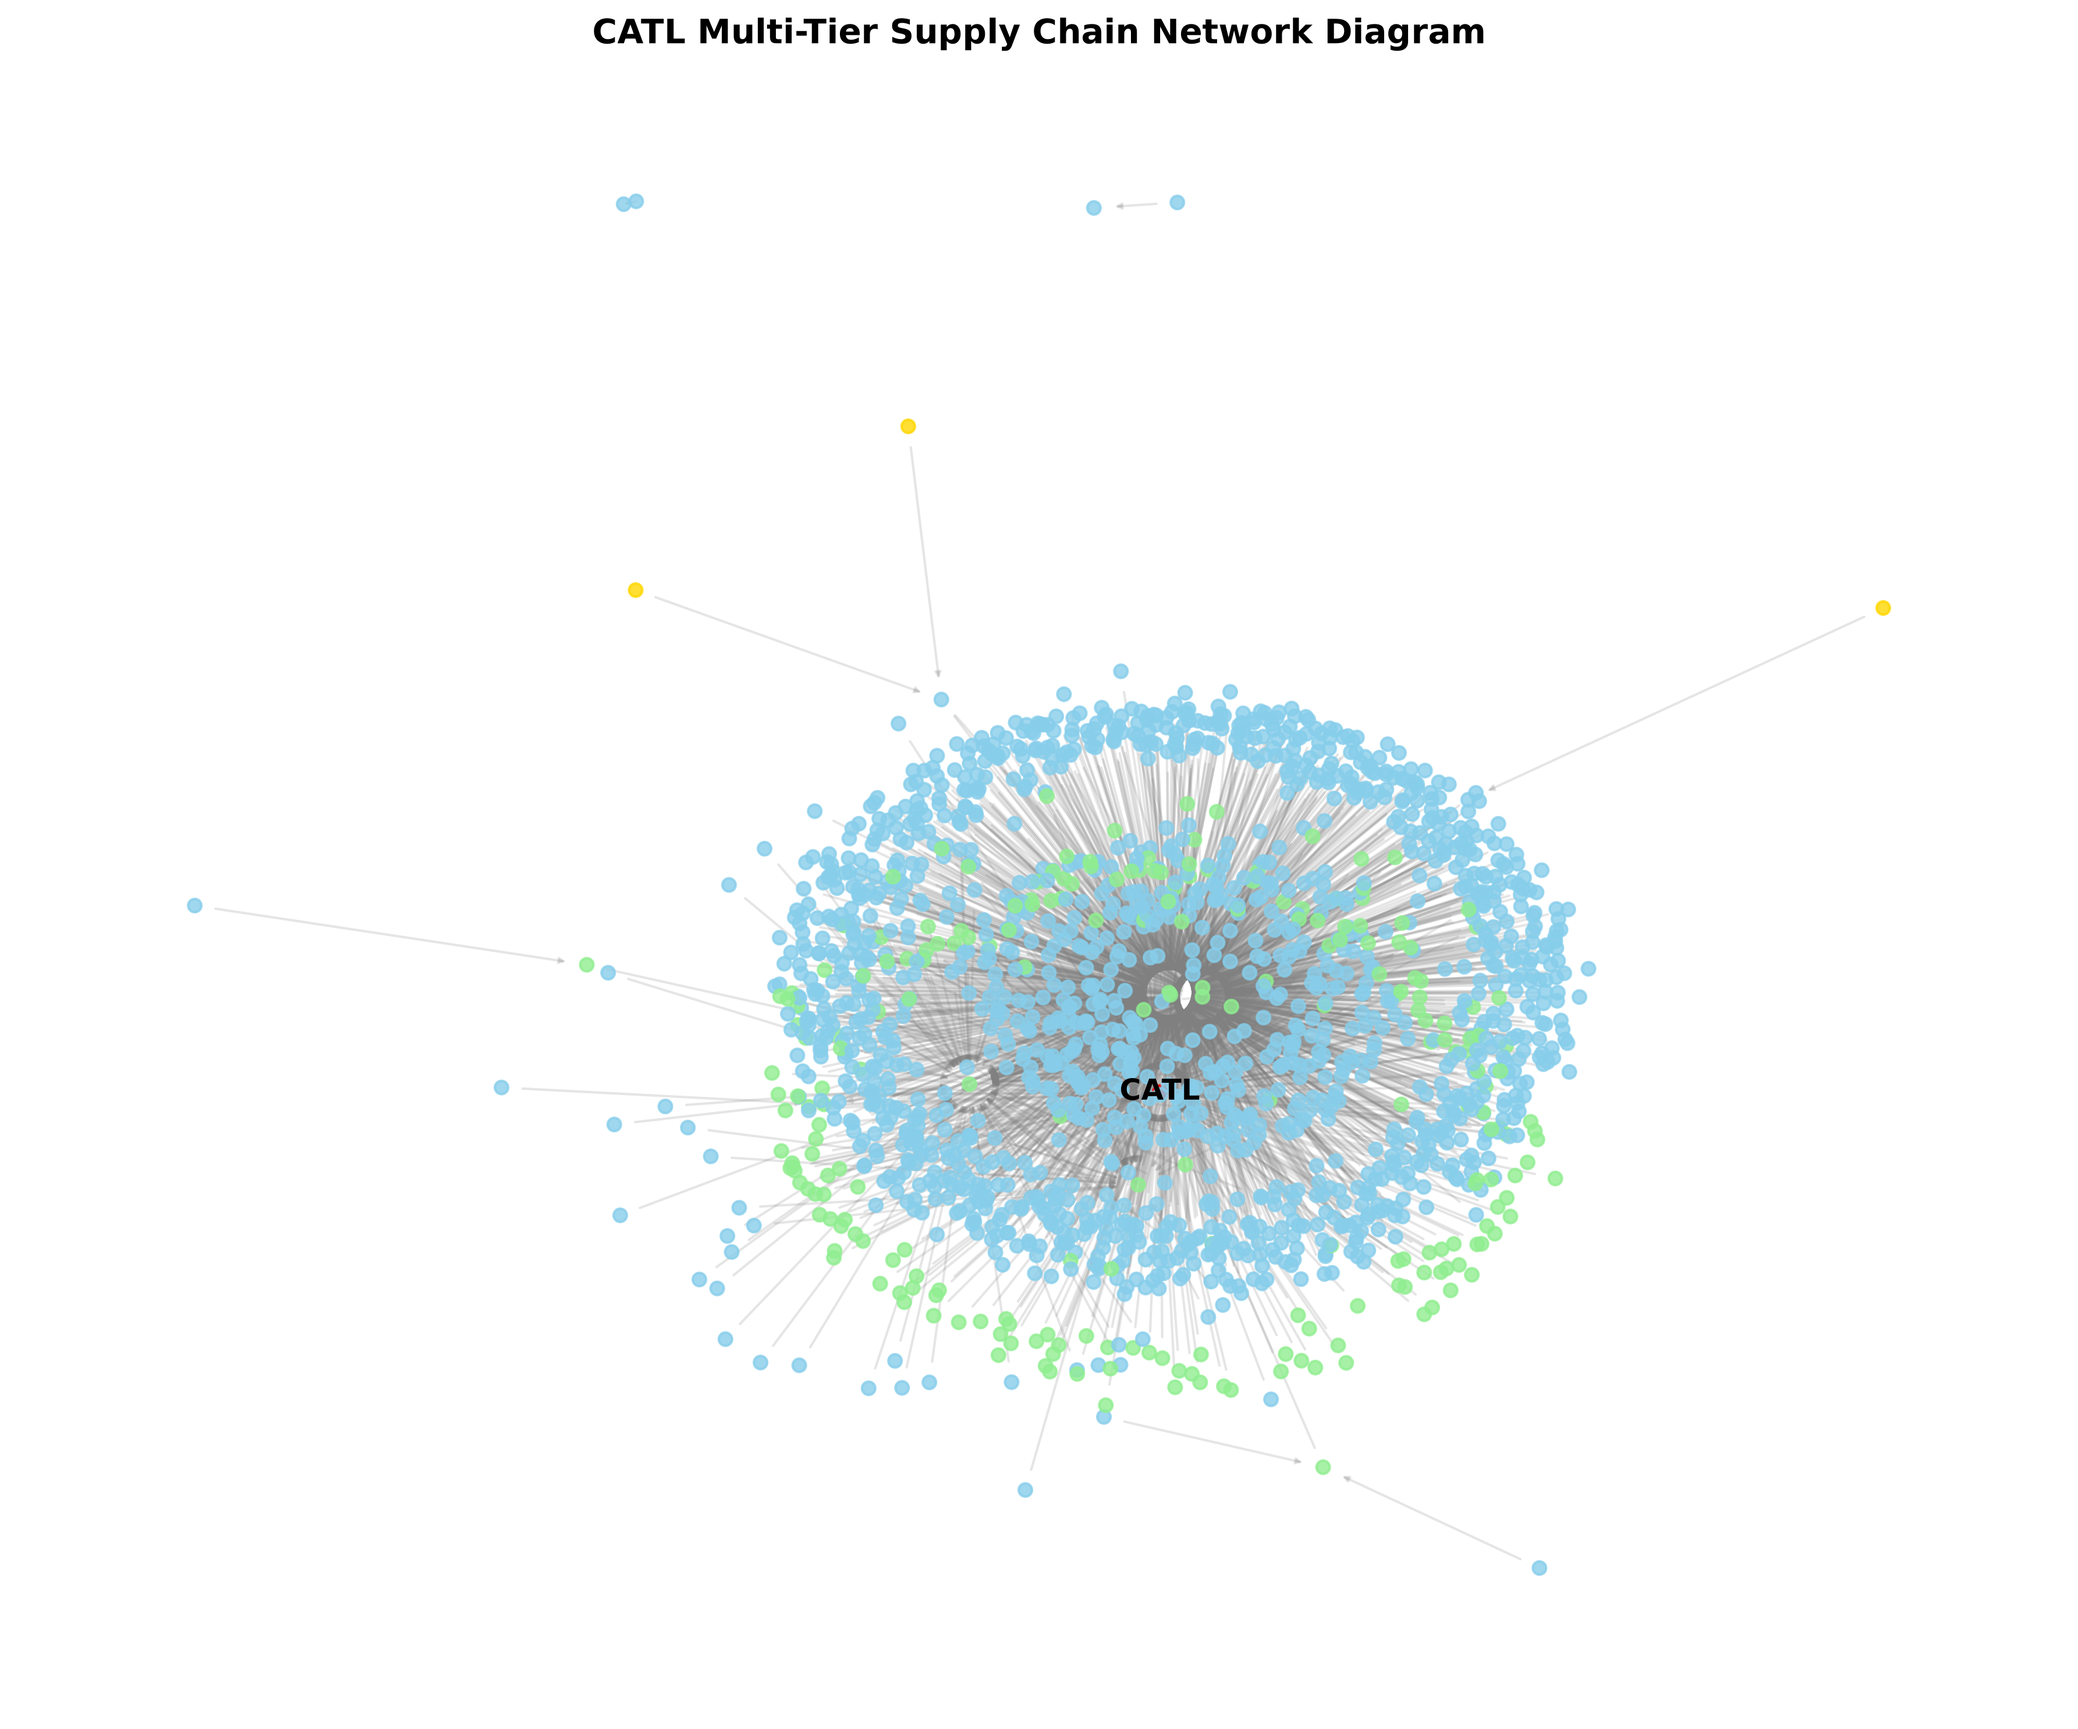
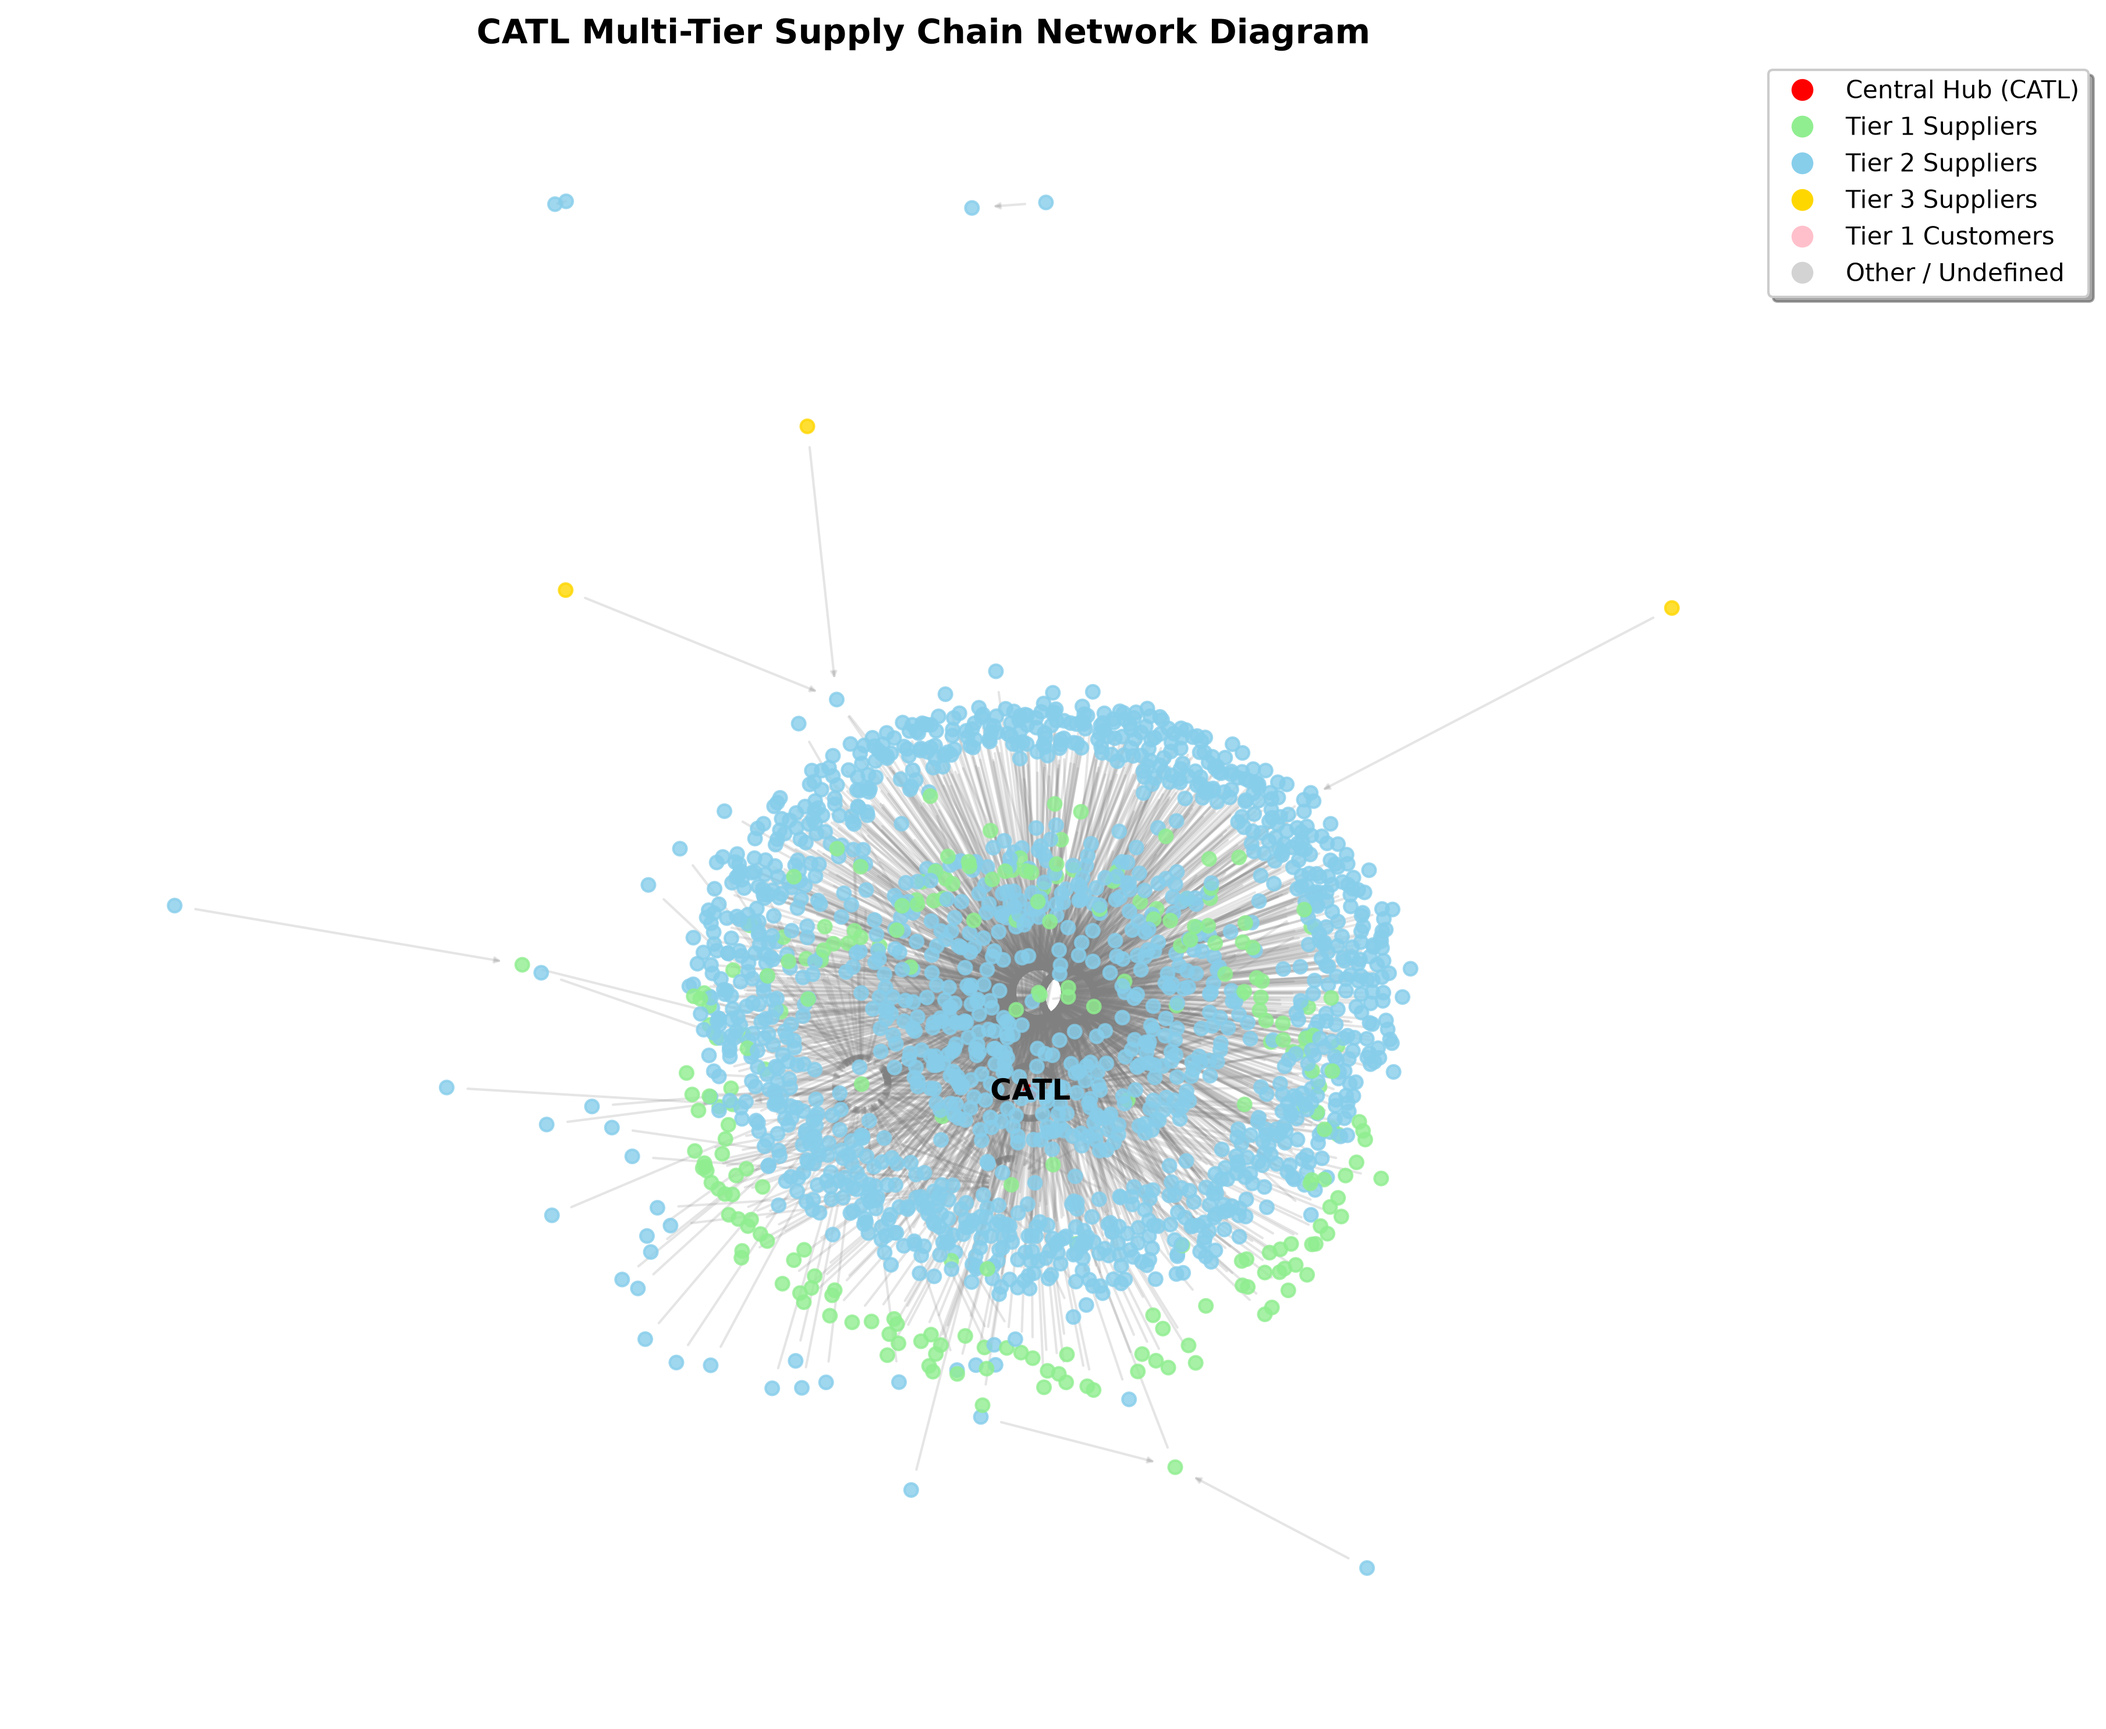
idk

diff --git a/main.py b/main.py
@@ -70,12 +70,12 @@ plt.figure(figsize = (12, 10))
 node_colors = []
 
 #dogs are colors :D
-dog1 = "red"
-dog2 = "lightgreen"
-dog3 = "skyblue"
-dog4 = "gold"
-dog5 = "pink"
-dog6 = "lightgray"
+dog1 = "red"            #central hub color
+dog2 = "lightgreen"     #tier 1 suppliers color
+dog3 = "skyblue"        #tier 2 suppliers color
+dog4 = "gold"           #tier 3 suppliers color
+dog5 = "pink"           #tier 1 customers color
+dog6 = "lightgray"      #whatever else's color
 
 #assign colors based on tier/role
 for node in G.nodes():
@@ -102,6 +102,22 @@ nx.draw_networkx_edges(G, pos, edge_color = 'gray', arrows = True, arrowsize = 5
 #highlight central CATL label for the node.
 if 'CATL' in G:
     nx.draw_networkx_labels(G, pos, labels = {'CATL': 'CATL'}, font_size = 12, font_weight = 'bold', font_color = 'black')
+
+from matplotlib.lines import Line2D
+
+#create manual legend
+legend_elements = [
+    Line2D([0], [0], marker='o', color='w', label='Central Hub (CATL)', markerfacecolor=dog1, markersize=10),
+    Line2D([0], [0], marker='o', color='w', label='Tier 1 Suppliers', markerfacecolor=dog2, markersize=10),
+    Line2D([0], [0], marker='o', color='w', label='Tier 2 Suppliers', markerfacecolor=dog3, markersize=10),
+    Line2D([0], [0], marker='o', color='w', label='Tier 3 Suppliers', markerfacecolor=dog4, markersize=10),
+    Line2D([0], [0], marker='o', color='w', label='Tier 1 Customers', markerfacecolor=dog5, markersize=10),
+    Line2D([0], [0], marker='o', color='w', label='Other / Undefined', markerfacecolor=dog6, markersize=10),
+]
+
+#add legend to plot
+plt.legend(handles=legend_elements, loc='upper right', bbox_to_anchor=(1.15, 1.0), frameon=True, shadow=True)
+
 
 plt.title("CATL Multi-Tier Supply Chain Network Diagram", fontsize = 14, fontweight = 'bold')
 plt.axis('off')
